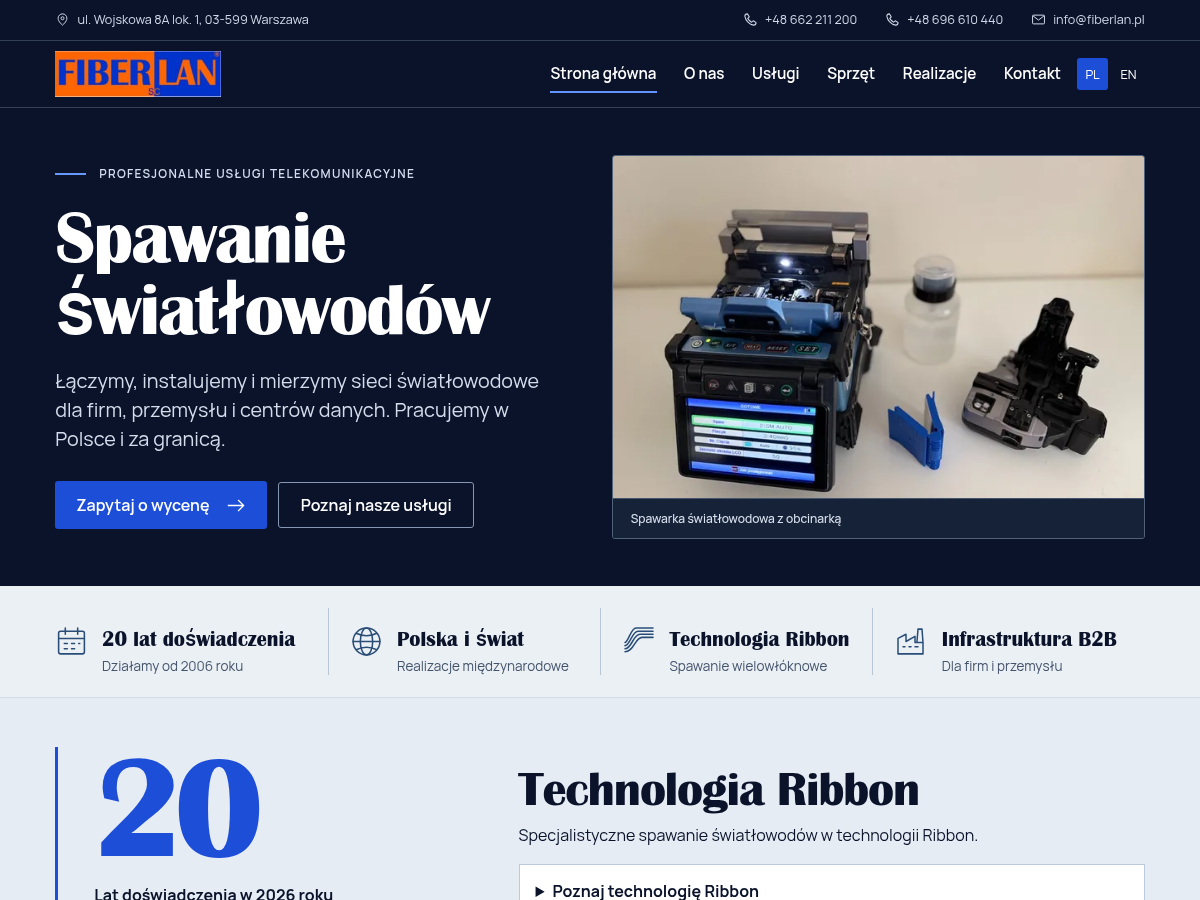
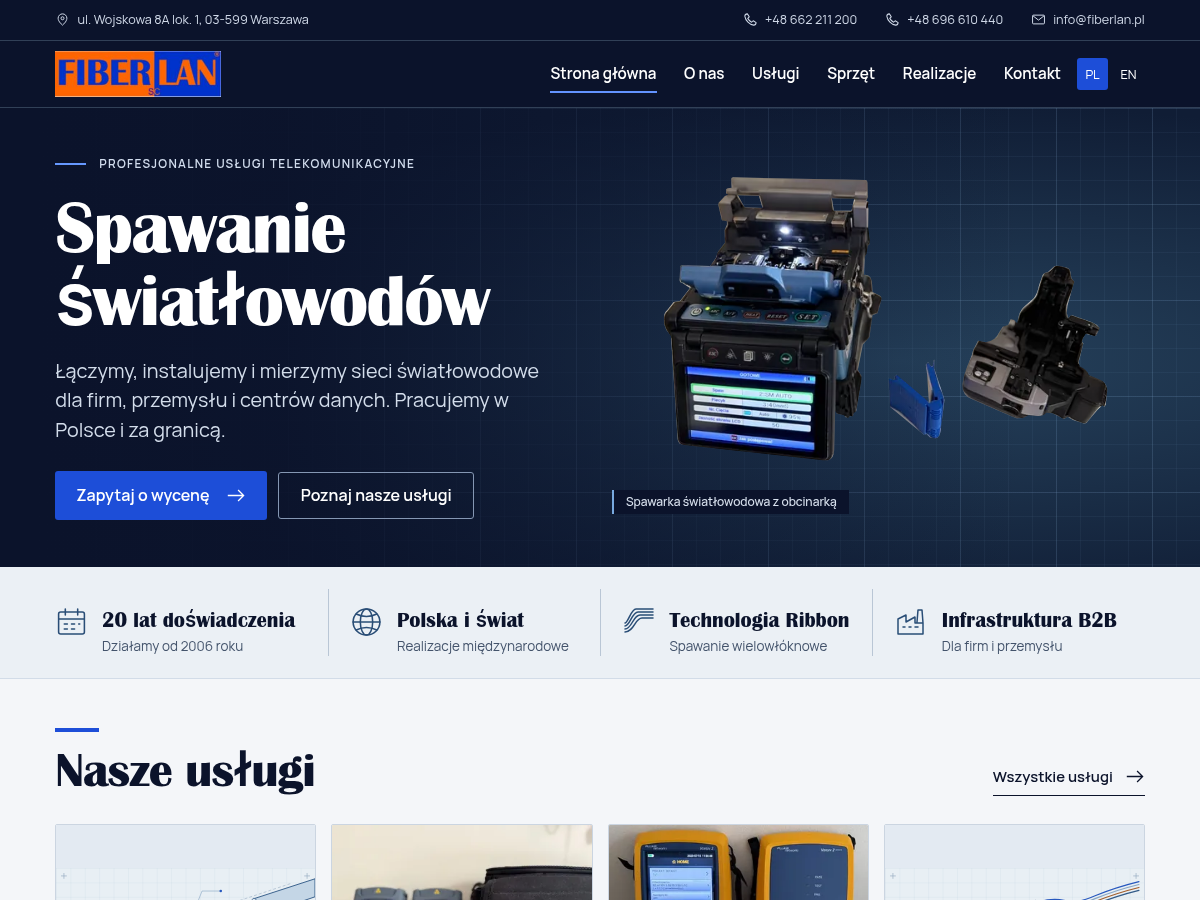
4H: wydanie 4.4.0 z instrukcją aktualizacji i wynikami odbioru

diff --git a/theme/fiberlan-child/style.css b/theme/fiberlan-child/style.css
@@ -2,7 +2,7 @@
 Theme Name: FIBERLAN Child
 Description: Motyw potomny do indywidualnych zmian w witrynie FIBERLAN SC.
 Template: fiberlan
-Version: 4.3.0
+Version: 4.4.0
 Author: Tomasz Majewski
 Author URI: https://majewskitomasz.pl
 Requires at least: 6.6

diff --git a/theme/fiberlan/style.css b/theme/fiberlan/style.css
@@ -1,7 +1,7 @@
 /*
 Theme Name: FIBERLAN
 Description: autorski motyw strony FIBERLAN SC
-Version: 4.3.0
+Version: 4.4.0
 Requires at least: 6.6
 Requires PHP: 7.4
 Author: Tomasz Majewski

diff --git a/plugin/fiberlan-site/fiberlan-site.php b/plugin/fiberlan-site/fiberlan-site.php
@@ -3,7 +3,7 @@
  * Plugin Name: FIBERLAN Core
  * Text Domain: fiberlan-core
  * Description: Powiązania językowe, katalog realizacji i zapytania ofertowe FIBERLAN.
- * Version: 4.3.0
+ * Version: 4.4.0
  * Author: Tomasz Majewski
  * Author URI: https://majewskitomasz.pl
  * Requires at least: 6.6
@@ -11,7 +11,7 @@
  */
 defined( 'ABSPATH' ) || exit;
 define( 'FL_SITE_DIR', __DIR__ );
-define( 'FL_SITE_VERSION', '4.3.0' );
+define( 'FL_SITE_VERSION', '4.4.0' );
 require_once __DIR__ . '/inc/languages.php';
 require_once __DIR__ . '/inc/projects.php';
 require_once __DIR__ . '/inc/contact.php';

diff --git a/docs/ODBIOR-4H.md b/docs/ODBIOR-4H.md
@@ -1,0 +1,46 @@
+# Odbiór FIBERLAN 4.4.0
+
+20 listopada 2026 r. Testy wykonano w lokalnym WordPressie 7.1.5 z PHP 8.3.36, motywem potomnym FIBERLAN Child i wtyczką FIBERLAN Core.
+
+## Treści i materiały
+
+| Strona PL / EN | Treść z dokumentu www1.docx |
+| --- | --- |
+| O nas / About | Praca zespołu od 2006 roku, nadzór założycieli Andrzeja i Norberta, dyżury w Polsce, kontrakty europejskie i dokumentacja odbiorowa. |
+| Usługi / Services | Spawanie SM/MM, FTTx, szafy RACK, pomiary OTDR, okablowanie miedziane, Ribbon i MPO/MTP. Sekcja serwisu 24/7 prowadzi do danych kontaktowych zespołu. |
+| Sprzęt / Equipment | Cztery spawarki Fujikura FSM-62S i FSM-70S łącznie, dwa analizatory Fluke, trzy reflektometry EXFO i dwa przyrządy VIAVI. Zachowano rozróżnienie między pomiarami Tier 1 i Tier 2. |
+| Realizacje / Projects | Cztery zakresy prac opisane przez klienta, w tym tory 100G/400G. Katalog zachowuje odrębne opisy Frankfurtu, Bordeaux i stoczni. |
+
+Angielskie wersje są tłumaczeniami redakcyjnymi treści klienta. Nazwy operatorów jako referencje pozostają do potwierdzenia zgodnie z wcześniejszym briefem. W opisie Ribbon wykorzystano dostarczone fakty techniczne. Dokument określał wyłączność rynkową jako przypuszczenie.
+
+Główna fotografia wykorzystuje maskę dopasowaną do konturów sprzętu. W zdjęciu zachowano ekran, napisy i akcesoria. Pełny kadr jest dostępny w katalogu i jako styl bloku. Karty realizacji korzystają z dotychczasowych rysunków branżowych. Dokument zawierał tekst, a fotografie w archiwum klienta przedstawiają sprzęt.
+
+## Wyniki kontroli
+
+| Obszar | Zakres i wynik |
+| --- | --- |
+| Widok publiczny | 22 adresy w PL i EN w Chromium przy 390 i 1440 px. Obrazy zostały zdekodowane, każdy adres miał jeden H1 i właściwe powiązanie językowe. Sprawdzono 90 różnych lokalnych celów odnośników, filtrów i kotwic. |
+| Nawigacja i ruch | Sześć głównych stron w każdym języku przy 320, 390, 768, 1024 i 1440 px. Sprawdzono przyklejone menu, pasek administracyjny, strzałkę, obsługę klawiaturą i dotykiem, pozycję po zamknięciu menu i tryb ograniczonego ruchu. Animacje kart i zdjęć mieszczą się w przedziale 700–1000 ms. |
+| Gutenberg | Walidacja bloków i zapis na kopiach 22 stron, odczyt po ponownym otwarciu, wymiana obrazu i ALT. Sprawdzono osiem wzorców z treścią klienta, obie nawigacje, stopki z regulacjami, dane kontaktowe, karty usług, kolejność sekcji i dodanie realizacji w każdym języku. |
+| Formularze i zgoda | Wiadomości PL i EN odczytano w Mailpit. Odbiorcą był `info@fiberlan.pl`, a Reply-To wskazywało adres wpisany przez nadawcę. Parametry kampanii przetrwały przejście na formularz. Po testowej zgodzie każde potwierdzenie mogło uruchomić jedno zdarzenie konwersji. |
+| SEO | 22 unikalne tytuły i opisy, nagłówki, canonical, hreflang, grafy Schema.org i odpowiedzi 404. Na kopiach z indeksowaniem sprawdzono mapy WordPressa i Rank Math. Obejmowały 18 adresów treści. Cztery projekty dokumentów prawnych miały noindex i pozostały poza mapami. |
+| Dostępność | 44 skany axe-core dla reguł WCAG A/AA oznaczonych tagami WCAG 2, 2.1 i 2.2 przy 390 i 1440 px. Wynik wyniósł 0 wykrytych naruszeń. Klawiaturą sprawdzono m.in. menu, formularz, panel Ribbon i powrót na górę. |
+| Paczki | Sprawdzono integralność i zawartość trzech ZIP-ów. Na świeżej bazie z wypakowanych plików uruchomiono motyw potomny i wtyczkę, otrzymując 22 strony oraz cztery media. Drugi start zachował strukturę. Porównano bajty plików klienta i obecność licencji Manrope. |
+
+## Wydajność
+
+Lighthouse 13.6 w Chromium, lokalny WordPress, domyślne profile mobilny i desktopowy. Wyniki wydajności są w skali 0–100.
+
+| Widok | Wydajność telefon / komputer | LCP telefon / komputer | TBT telefon / komputer | CLS |
+| --- | --- | --- | --- | --- |
+| Strona główna PL | 98 / 100 | 2,41 s / 0,53 s | 39 ms / 0 ms | 0 |
+| Usługi PL | 100 / 100 | 1,06 s / 0,49 s | 0 ms / 0 ms | 0 |
+| Kontakt EN | 100 / 100 | 0,91 s / 0,26 s | 0 ms / 0 ms | 0 |
+
+Każdy profil uzyskał wynik 100 w kategorii dostępności Lighthouse. W kategorii SEO lokalna blokada indeksowania dała wynik 69. Zachowanie udostępnionej do indeksowania kopii sprawdzono osobno. Przeglądarka zmierzyła 8–32 ms dla pierwszej interakcji przy otwieraniu mobilnego menu na 22 stronach. Rzeczywiste LCP, INP i CLS wymagają próby ruchu użytkowników na domenie docelowej.
+
+## Przed uruchomieniem na domenie
+
+Właściciel zatwierdza obie wersje dokumentów prawnych i ewentualne użycie nazw klientów. Na hostingu pozostają do weryfikacji dostarczenie poczty do rzeczywistej skrzynki oraz otwarcie panelu CookieYes z konfiguracją klienta i działanie tagów kampanii po zgodzie.
+
+[Instalacja i aktualizacja](HOSTING.md) · [Edycja treści](EDYCJA.md)

diff --git a/docs/HOSTING.md b/docs/HOSTING.md
@@ -2,11 +2,13 @@
 
 ## Instalacja na kopii testowej
 
-Rozpakuj pakiet wydania FIBERLAN 4.3.0. W WordPress wybierz **Wygląd → Motywy → Dodaj motyw** i wgraj osobno `fiberlan.zip` oraz `fiberlan-child.zip`. Przez **Wtyczki → Dodaj wtyczkę** wgraj `fiberlan-site.zip`. Aktywuj motyw potomny i wtyczkę. W **Ustawienia → Bezpośrednie odnośniki** wybierz strukturę **Nazwa wpisu**. Następnie otwórz **Wygląd → FIBERLAN PL/EN** i wybierz **Przygotuj strony PL i EN**. Warto zawczasu wykonać kopię bazy. Instalator zachowuje opublikowane treści i zgłasza kolizje adresów.
+Rozpakuj pakiet wydania FIBERLAN 4.4.0. W WordPress wybierz **Wygląd → Motywy → Dodaj motyw** i wgraj osobno `fiberlan.zip` oraz `fiberlan-child.zip`. Przez **Wtyczki → Dodaj wtyczkę** wgraj `fiberlan-site.zip`. Aktywuj motyw potomny i wtyczkę. W **Ustawienia → Bezpośrednie odnośniki** wybierz strukturę **Nazwa wpisu**. Następnie otwórz **Wygląd → FIBERLAN PL/EN** i wybierz **Przygotuj strony PL i EN**. Warto zawczasu wykonać kopię bazy. Instalator zachowuje opublikowane treści i zgłasza kolizje adresów.
 
 ## Aktualizacja istniejącej witryny
 
 Zrób kopię bazy danych oraz `wp-content/uploads`. Zaktualizuj trzy pakiety przez mechanizm zastąpienia aktualnej wersji w WordPressie. Katalogi `fiberlan`, `fiberlan-child` i `fiberlan-site` identyfikują aktualizowane komponenty. Instalator stron jest potrzebny tylko przy tworzeniu witryny. Po aktualizacji wyczyść cache LiteSpeed i CDN, a następnie sprawdź obie wersje językowe.
+
+Na świeżej instalacji osiem stron otrzymuje treść klienta od razu. Przy aktualizacji z wersji 4.3 treść stron zapisana w bazie ma pierwszeństwo. Wstaw odpowiedni wzorzec **FIBERLAN · nazwa strony (PL/EN)** w szkicu i przenieś wybrane bloki do istniejącej strony. Kolejność sekcji strony głównej, odnośniki kart i wybór pełnego kadru opisuje [instrukcja redaktora](EDYCJA.md).
 
 Domyślne stopki automatycznie korzystają z nowego układu. Jeżeli stopkę zapisano wcześniej jako własną część szablonu, WordPress użyje tej wersji z bazy. Otwórz ją w Edytorze witryny. Skopiuj grupę **Regulacje prawne** z odpowiedniego wzorca **Stopka FIBERLAN (PL)** lub **FIBERLAN footer (EN)**. Wklej ją obok grupy **Kontakt**, przenieś własne adresy polityk i etykietę CookieYes, a następnie usuń stary pasek z powielonymi linkami. Zapisz i sprawdź osobno PL i EN.
 

diff --git a/docs/SEO-KAMPANIE-WYDAJNOSC.md b/docs/SEO-KAMPANIE-WYDAJNOSC.md
@@ -2,7 +2,7 @@
 
 ## Metadane, indeksowanie i Rank Math
 
-1. Na kopii testowej zaktualizuj motyw i wtyczkę FIBERLAN do wersji 4.3.0. Po aktualizacji domyślne szablony zawierają ścieżkę nawigacji na podstronach i spis odnośników do sekcji na stronach usług. W zapisanej wcześniej kopii szablonu można wstawić bloki **Ścieżka nawigacji** i **Spis usług** w Edytorze witryny.
+1. Na kopii testowej zaktualizuj motyw i wtyczkę FIBERLAN do wersji 4.4.0. Po aktualizacji domyślne szablony zawierają ścieżkę nawigacji na podstronach i spis odnośników do sekcji na stronach usług. W zapisanej wcześniej kopii szablonu można wstawić bloki **Ścieżka nawigacji** i **Spis usług** w Edytorze witryny.
 2. Zainstaluj Rank Math z dystrybucji WordPressa, uruchom kreator i włącz moduł mapy witryny. Konto Rank Math jest opcjonalne dla metadanych i mapy. Po zakończeniu instalacji zapisz ponownie ustawienia bezpośrednich odnośników. W Rank Math wybierz jeden adres docelowy HTTPS i sprawdź adresy wygenerowane w kodzie strony.
 3. Domyślne tytuły i opisy są przypisane do 22 adresów PL/EN. Fraza „spawanie światłowodów” występuje w H1 strony głównej, w H2 sekcji usługi oraz w tytułach i opisach obu tych stron. Opisy można zastąpić po dostarczeniu finalnych treści. Redaktor może je nadpisać w edytorze każdej strony. Gdy działa Rank Math, użyj jego edytora podglądu wyniku wyszukiwania. Przy samodzielnej pracy wtyczki FIBERLAN użyj panelu **FIBERLAN – SEO** pod treścią. Oba edytory korzystają z tych samych pól w bazie. Dodając nową stronę, ustaw własny opis i obrazek wyróżniający do podglądu w mediach społecznościowych.
 4. Na stronach instalatora FIBERLAN generuje jeden graf Schema.org. Zawiera profil firmy, a tam, gdzie ma to zastosowanie, także listę usług i ścieżkę nawigacji. Adres, telefon i e-mail pochodzą z synchronizowanego wzorca danych kontaktowych. Rank Math zapewnia metadane, karty społecznościowe i mapę. Schema Rank Math można używać na innych stronach.

diff --git a/README.md b/README.md
@@ -1,6 +1,8 @@
 # FIBERLAN SC · Motyw blokowy WordPress
 
-FIBERLAN SC 4.3.0 to dwujęzyczna witryna WordPress. Motyw blokowy w `theme/fiberlan` odpowiada za wygląd strony i edytora, a `theme/fiberlan-child` dziedziczy jego szablony i paletę, dodaje wzorzec karty usługi oraz własny układ fotorelacji. Wtyczka **FIBERLAN Core** w `plugin/fiberlan-site` obsługuje powiązania językowe, katalog realizacji, formularz, SEO i integrację zgód. Instalacja korzysta z gotowych plików PHP, CSS i JavaScript.
+FIBERLAN SC 4.4.0 to dwujęzyczna witryna WordPress. Motyw blokowy w `theme/fiberlan` odpowiada za wygląd strony i edytora, a `theme/fiberlan-child` dziedziczy jego szablony i paletę, dodaje wzorzec karty usługi oraz własny układ fotorelacji. Wtyczka **FIBERLAN Core** w `plugin/fiberlan-site` obsługuje powiązania językowe, katalog realizacji, formularz, SEO i integrację zgód. Instalacja korzysta z gotowych plików PHP, CSS i JavaScript.
+
+[Odbiór wydania 4.4.0](docs/ODBIOR-4H.md)
 
 ## Lokalna instalacja deweloperska
 

diff --git a/PROJECT_STATUS.md b/PROJECT_STATUS.md
@@ -1,5 +1,13 @@
 # FIBERLAN SC · Status projektu
 
+## 4H · Treści klienta, kompozycja strony i odbiór
+
+**20 listopada 2026 r. · FIBERLAN 4.4.0.** Treści z `www1.docx` są na czterech podstronach w każdym języku. Dla aktualizowanych witryn dodano osiem wzorców z edytowalnymi blokami. Zdjęcie sprzętu w sekcji głównej korzysta z maski konturowej. Po pasku doświadczenia następują usługi i realizacje, a nazwy projektów prowadzą do opisów w wybranym języku.
+
+W lokalnym WordPressie sprawdzono 22 adresy, edycję stron i części witryny, 44 skany dostępności, dostarczenie obu formularzy do Mailpit oraz instalację z gotowych paczek. Pomiary Lighthouse dały 98–100 za wydajność i CLS 0. Odbiór obejmuje pracę na gałęzi `feature/fiberlan-gutenberg-premium`.
+
+[Wyniki testów 4H i zakres kontroli produkcyjnej](docs/ODBIOR-4H.md)
+
 ## 4E–4G · Stopka prawna, SEO i paczki produkcyjne
 
 **19 listopada 2026 · FIBERLAN 4.3.0, WordPress 7.1.5.**
